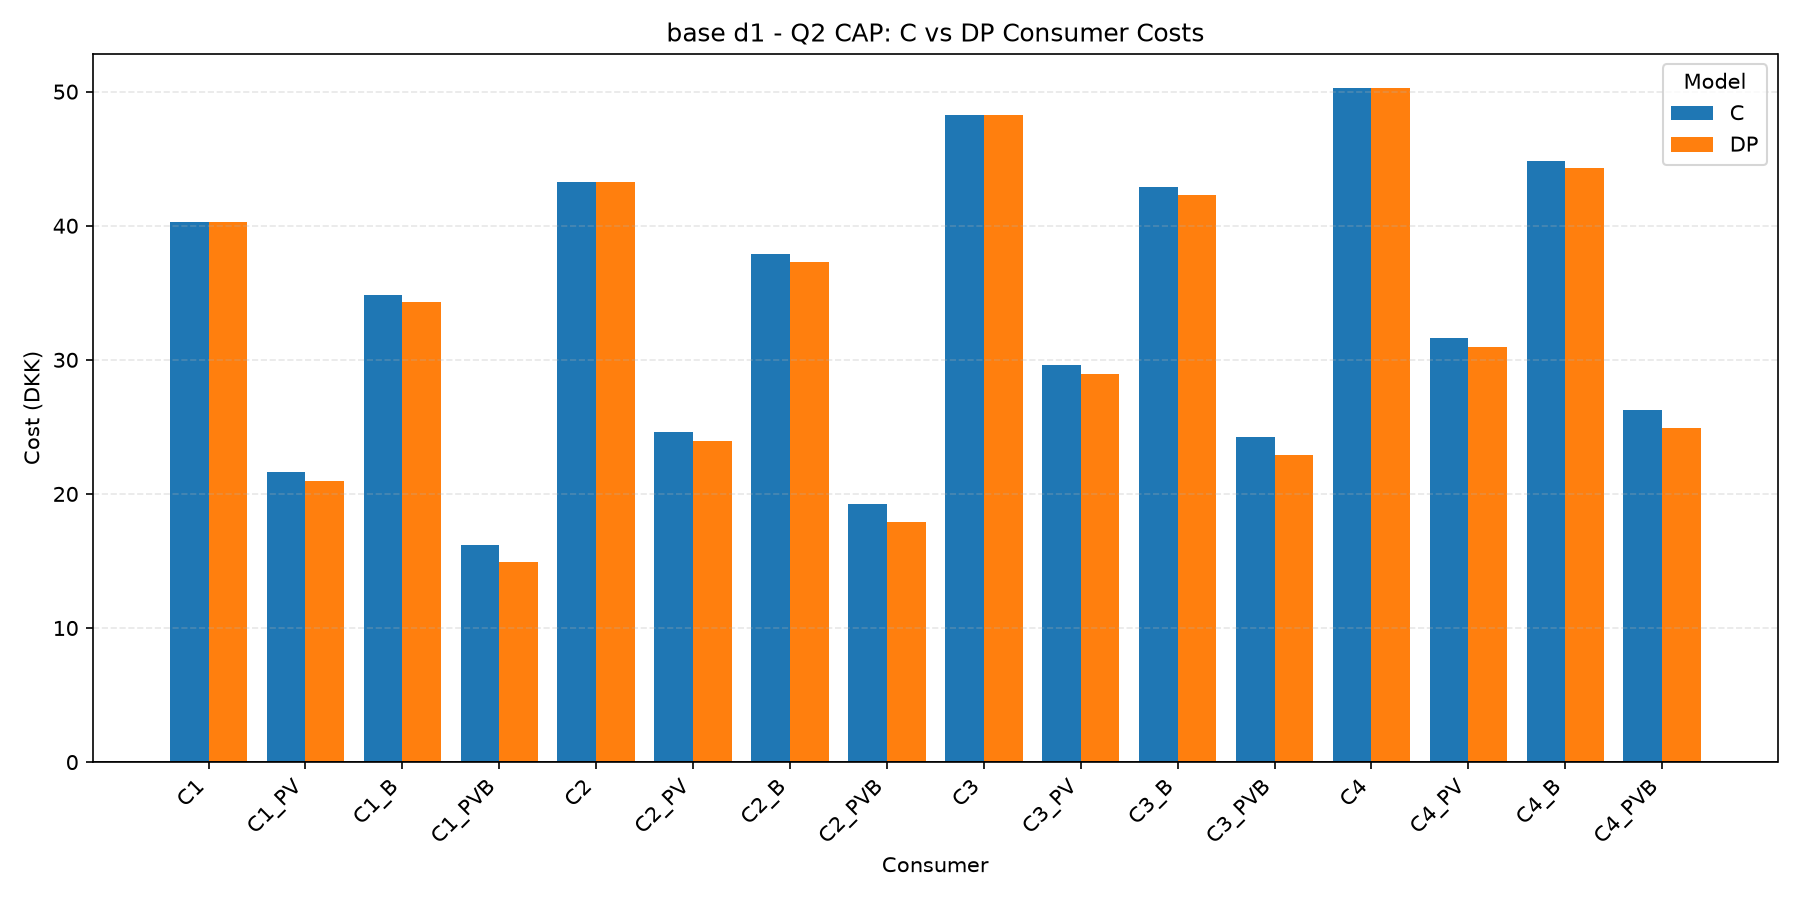
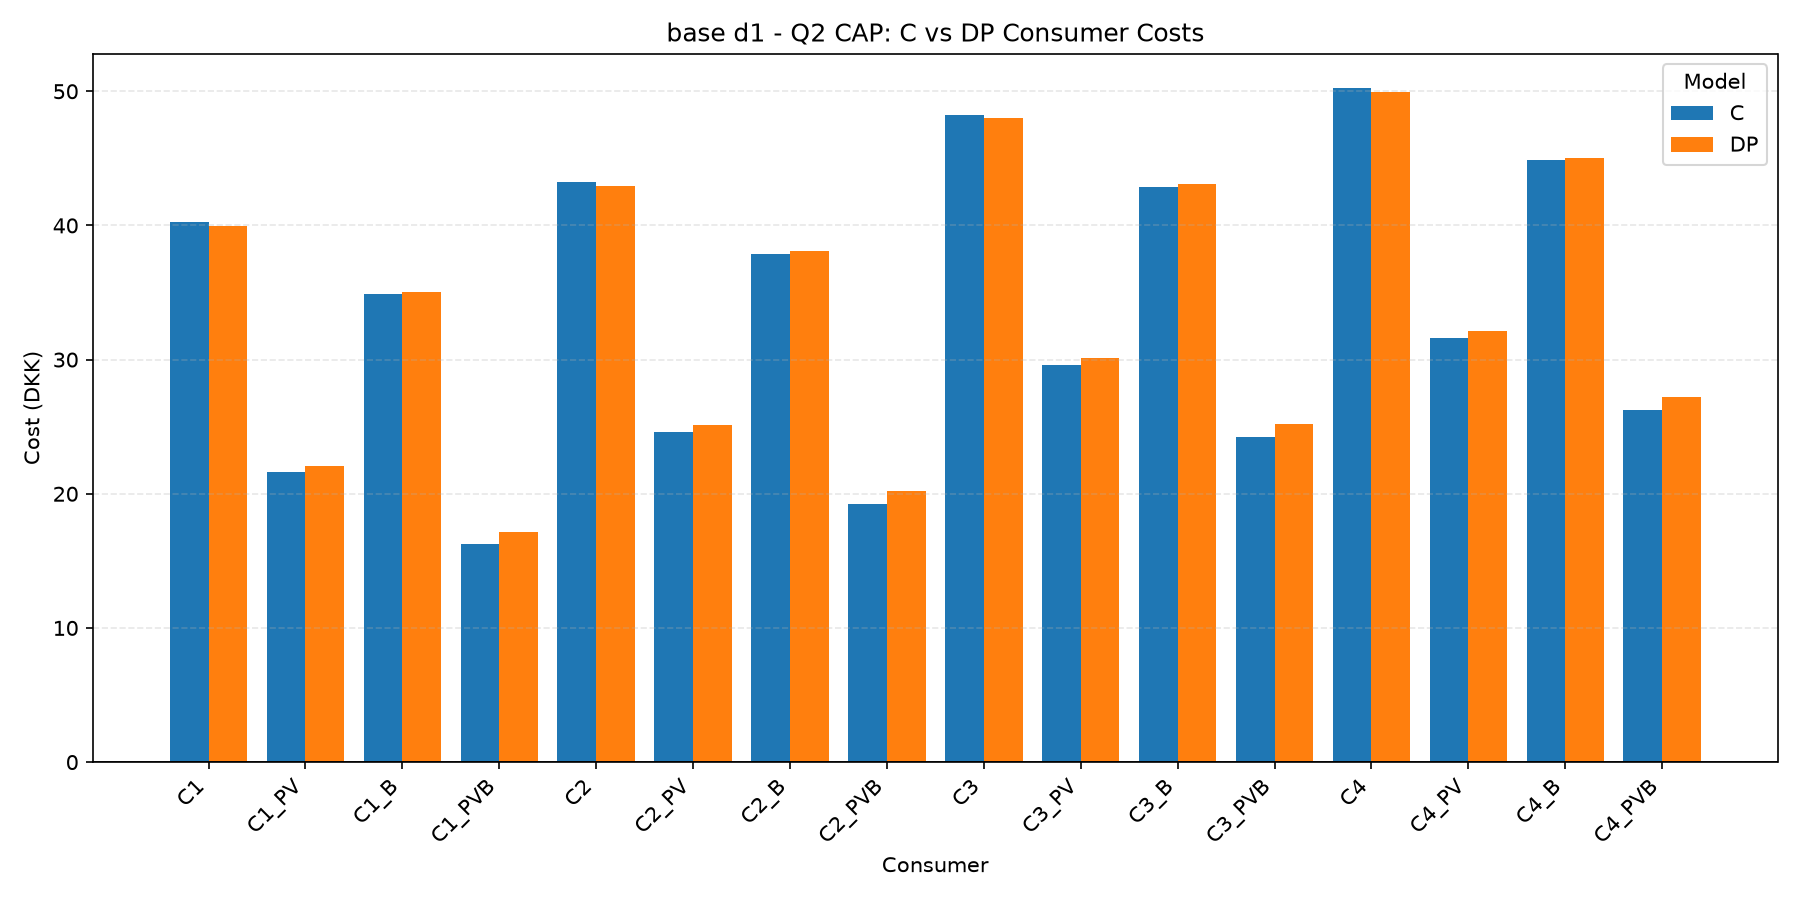
add comparison plot under model DP variants

diff --git a/src/plotting.py b/src/plotting.py
@@ -2,6 +2,7 @@ from __future__ import annotations
 
 from pathlib import Path
 from typing import Any 
+import json
 
 import matplotlib.pyplot as plt
 import numpy as np
@@ -143,3 +144,86 @@ def plot_consumer_cost_comparison(
     ax.legend(title="Model")
 
     return _finish(fig, save_to)
+
+def plot_internal_price_comparison(
+    results_by_model: dict[str, dict],
+    title: str = "Internal Price Comparison",
+    save_to: Path | str | None = None,
+) -> plt.Figure:
+    """Plot 24-hour internal prices for several pricing models."""
+    fig, ax = plt.subplots(figsize=(12, 5))
+    styles = {
+        "C": {"color": "black", "linestyle": "--"},
+        "DP-cap": {"color": "tab:blue", "linestyle": "-"},
+        "DP-BB": {"color": "tab:orange", "linestyle": "-"},
+        "DP-IR-soft": {"color": "tab:red", "linestyle": "-"},
+    }
+
+    for model, result in results_by_model.items():
+        if "internal_prices" not in result:
+            raise KeyError(f"Model '{model}' does not contain 'internal_prices'")
+        prices = np.asarray(result["internal_prices"], dtype=float)
+        hours = np.arange(len(prices))
+        ax.step(hours, prices, where="mid", marker="o", markersize=3,
+                linewidth=1.8, label=model, **styles.get(model, {}))
+
+    ax.set_xlabel("Hour")
+    ax.set_ylabel("Internal price (DKK/kWh)")
+    ax.set_title(title)
+    ax.set_xticks(np.arange(24))
+    ax.axhline(0, color="black", linewidth=0.8)
+    ax.grid(axis="both", linestyle="--", alpha=0.3)
+    ax.legend(title="Model")
+    return _finish(fig, save_to)
+
+
+from cycler import cycler
+MODEL_COLORS = ["#264653", "#2A9D8F", "#E9C46A", "#E76F51"]
+
+def plot_q2_model_comparison(
+    community: str = "base",
+    day: str = "d1",
+    results_root: Path | str = "results",
+) -> tuple[plt.Figure, plt.Figure]:
+    """Plot C, DP-cap, DP-BB, and DP-IR-soft from existing Q2 result JSON files."""
+    root = Path(results_root) / community
+    result_paths = {
+        "DP-cap": root / f"Q2_{day}_cap" / "results.json",
+        "DP-BB": root / f"Q2_{day}_bb" / "results.json",
+        "DP-IR-soft": root / f"Q2_{day}_ir_soft" / "results.json",
+    }
+
+    reports = {}
+    missing = []
+    for label, path in result_paths.items():
+        if not path.exists():
+            missing.append(str(path))
+        else:
+            reports[label] = json.loads(path.read_text())
+    if missing:
+        raise FileNotFoundError(
+            "Missing required Q2 result(s):\n" + "\n".join(missing)
+        )
+
+    c_result = reports["DP-cap"]["C"]
+    cost_results = {"C": c_result}
+    price_results = {"C": c_result}
+    for label in ("DP-cap", "DP-BB", "DP-IR-soft"):
+        cost_results[label] = reports[label]["DP"]
+        price_results[label] = reports[label]["DP"]
+
+    output = root / f"Q2_{day}_model_comparison"
+    with plt.rc_context({"axes.prop_cycle": cycler(color=MODEL_COLORS)}):
+        cost_fig = plot_consumer_cost_comparison(
+            cost_results,
+            models=("C", "DP-cap", "DP-BB", "DP-IR-soft"),
+            title=f"{community} {day}: Consumer Cost Comparison",
+            save_to=output / "consumer_cost_comparison_C_DP_cap_BB_IRsoft.png",
+        )
+        price_fig = plot_internal_price_comparison(
+            price_results,
+            title=f"{community} {day}: Internal Price Comparison",
+            save_to=output / "internal_price_comparison_C_DP_cap_BB_IRsoft.png",
+        )
+    print(f"Comparison plots: {output}")
+    return cost_fig, price_fig

diff --git a/main.py b/main.py
@@ -6,6 +6,7 @@
     python main.py --question 2 --variant bb                    # Q2 with budget balance
     python main.py --question 2 --variant ir                    # Q2 with budget balance and hard IR
     python main.py --question 2 --variant ir --soft-ir --price-min 0.01  # Q2 with lexicographic Soft IR
+    python main.py --plot-q2-comparison --community base --day d1 #plot consumer cost comparison for Q2 variants from existing results
     python main.py --community my_mix --day d4                  # select community and day
     python main.py --members                                    # also print all members' summaries
     python main.py --demo                                       # also run the Q3 scenario demonstration
@@ -21,7 +22,11 @@ import gurobipy as gp
 
 from src.data_loader import load_community, list_communities
 from src.model import EnergyCommunityModel
-from src.plotting import plot_community_schedule, plot_consumer_cost_comparison
+from src.plotting import (
+    plot_community_schedule,
+    plot_consumer_cost_comparison,
+    plot_q2_model_comparison,
+)
 from src.sensitivity import run_cap_sensitivity, run_discount_sensitivity, run_penalty_sensitivity
 
 RESULTS_DIR = Path(__file__).resolve().parent / "results"
@@ -238,6 +243,8 @@ def main(argv=None) -> None:
     q2.add_argument("--output-dir", type=Path)
     q2.add_argument("--verbose", action="store_true")
     q2.add_argument("--soft-ir", action="store_true", help="relax IR lexicographically (min sum(s_i), then min cost)")
+    ap.add_argument("--plot-q2-comparison", action="store_true",
+                    help="plot C, DP-cap, DP-BB, and DP-IR-soft from existing JSON results")
     args = ap.parse_args(argv)
     if args.question == 2 and args.sensitivity:
         ap.error("--sensitivity runs the Q1 studies; use --question 1 (the default)")
@@ -246,7 +253,14 @@ def main(argv=None) -> None:
     # === [CHANGE 4] Guard against --soft-ir used without --variant ir ===
     if args.soft_ir and (args.question != 2 or args.variant != "ir"):
         ap.error("--soft-ir requires --question 2 --variant ir")
-    # === [END CHANGE 4] ===
+
+    if args.plot_q2_comparison:
+        plot_q2_model_comparison(
+            community=args.community,
+            day=args.day,
+            results_root=RESULTS_DIR,
+        )
+        return
 
     com = load_community(args.community, day=args.day)
     print(com.summary(), "\n")
